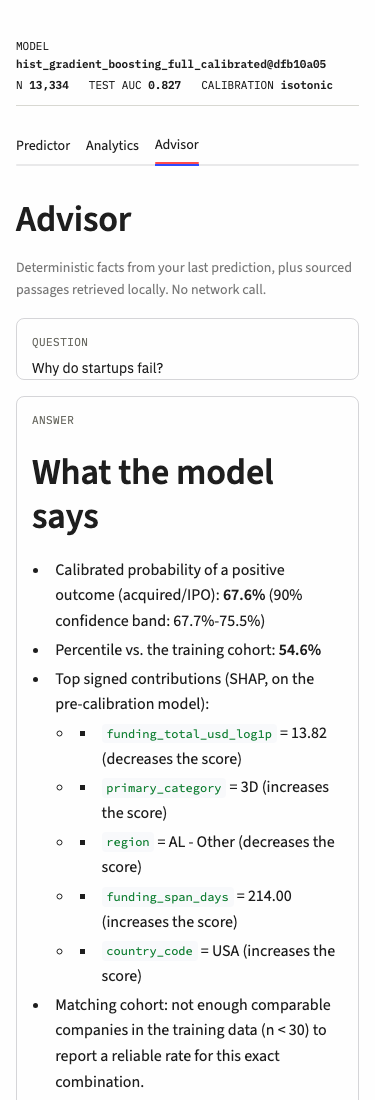
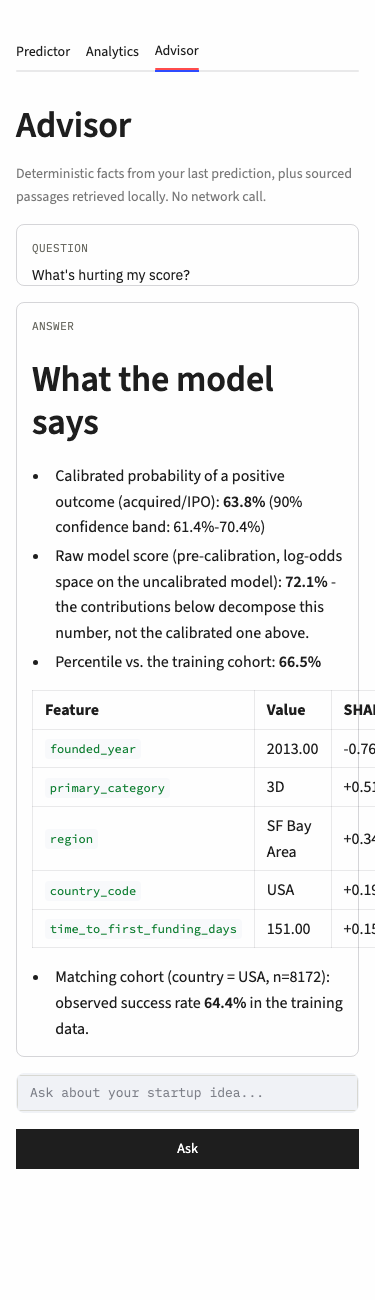
docs: add coverage note, USA-concentration limitation, clean-vs-full production numbers, refresh screenshots
Live-computed coverage caption in the Analytics dashboard (country/category/
funding non-null rates - 85.1%/91.9%/83.6%, matching plan estimates measured
against the real processed dataset, not hardcoded). README's Limitations
gains a geographic-concentration bullet (USA is 8,172 of 10,632 rows in the
country-breakdown chart, 76.9%, verified live). MODEL_CARD.md gains a
"Production default: clean, not full" section with the real Task-1 calibrated
AUC/Brier numbers for both models. Re-ran the retrieval eval (recall@3 0.882,
recall@5 0.941 - unchanged, confirming the router work didn't touch the
retrieval layer) and restored the hand-written RETRIEVAL_EVAL.md sections the
eval script overwrites. Re-captured all four docs/screenshots/*.png against
the Task 8 UI (model toggle, both-AUC line, bracketing confidence band, raw
score caption, table-rendered SHAP contributions) - the prior set predated
those changes.

diff --git a/analytics.py b/analytics.py
@@ -51,6 +51,13 @@ def show_dashboard() -> None:
     df = _load_dataset()
     overall = df["label"].mean()
     st.metric("Overall success rate", f"{overall:.1%}", help=f"n={len(df):,} labeled companies (operating excluded)")
+    st.caption(
+        f"Coverage: {df['country_code'].notna().sum():,} of {len(df):,} rows have a country "
+        f"({df['country_code'].notna().mean():.1%}), {df['primary_category'].notna().sum():,} have a category "
+        f"({df['primary_category'].notna().mean():.1%}), {df['funding_total_usd_log1p'].notna().sum():,} have "
+        f"funding data ({df['funding_total_usd_log1p'].notna().mean():.1%}). Each chart's own n reflects its "
+        f"column's non-null, n>=30-suppressed rows - the differing totals below are expected, not an error."
+    )
 
     st.subheader("By country")
     by_country = _grouped_success_rate(df, "country_code").head(TOP_N_GROUPS)

diff --git a/docs/superpowers/plans/2026-09-22-correctness-presentation-pass.md b/docs/superpowers/plans/2026-09-22-correctness-presentation-pass.md
@@ -1477,7 +1477,7 @@ git commit -m "feat(api): default to the clean model, full model opt-in via feat
 **Files:**
 - Modify: `README.md`, `MODEL_CARD.md`, `analytics.py` (coverage note)
 
-- [ ] **Step 1: Add a coverage note to `analytics.py`'s dashboard**
+- [x] **Step 1: Add a coverage note to `analytics.py`'s dashboard**
 
 Right after the `st.metric("Overall success rate", ...)` line in `show_dashboard()`, add:
 ```python
@@ -1491,14 +1491,14 @@ Right after the `st.metric("Overall success rate", ...)` line in `show_dashboard
 ```
 (This computes the real percentages live, matching the acceptance bar of no invented numbers - don't hardcode the 85.1%/91.9%/83.6% figures from planning even though they should reproduce.)
 
-- [ ] **Step 2: Add the USA-concentration sentence to README's Limitations section**
+- [x] **Step 2: Add the USA-concentration sentence to README's Limitations section**
 
 Find the existing "Missing feature families" Limitations bullet and add a new bullet right after the "Survivorship bias" one:
 ```markdown
 - **Geographic concentration:** USA accounts for 8,172 of the 10,632 rows shown in the country-breakdown chart (76.9%, computed live in the Analytics tab) - this is effectively a US-centric model; success-rate patterns for other countries rest on much smaller samples.
 ```
 
-- [ ] **Step 3: Update MODEL_CARD.md with the real clean-model-default numbers**
+- [x] **Step 3: Update MODEL_CARD.md with the real clean-model-default numbers**
 
 Add a new section after the existing metrics table, using the real `roc_auc_after`/`brier_after` values Task 1 printed for both `clean` and `full` calibrated models:
 ```markdown
@@ -1511,13 +1511,13 @@ available as an explicit, labeled "leakage demonstration" toggle in the app and 
 in the API (which then requires the three leaky funding fields) - never the silent default.
 ```
 
-- [ ] **Step 4: Re-run the retrieval eval and the screenshot capture, since the UI changed substantially**
+- [x] **Step 4: Re-run the retrieval eval and the screenshot capture, since the UI changed substantially**
 
 Run: `python3 scripts/run_retrieval_eval.py` (confirms Task 5-7's router work didn't change retrieval-layer numbers - it shouldn't, since `MIN_RETRIEVAL_SCORE` and the retrieval/rerank code are untouched, but verify rather than assume).
 
 Re-capture `docs/screenshots/predictor_form.png`, `predictor_result.png`, `analytics.png`, `advisor.png` using the same Playwright approach as the prior session (start the app, drive it with a script, screenshot at 375px width) - the Predictor tab now has the model toggle and both-AUC line, the Advisor tab now shows table-rendered contributions and the raw score line, so the old screenshots are stale.
 
-- [ ] **Step 5: Commit**
+- [x] **Step 5: Commit**
 
 ```bash
 git add analytics.py README.md MODEL_CARD.md docs/screenshots/

diff --git a/MODEL_CARD.md b/MODEL_CARD.md
@@ -47,6 +47,14 @@ Every non-dummy model's **test ROC-AUC is higher than its CV ROC-AUC mean** (e.g
 
 Both model families lose roughly 3.6-4.7 ROC-AUC points when `funding_total_usd_log1p`, `funding_rounds`, and `funding_span_days` are removed — consistent with the diagnostic probe in `DATA_CARD.md` (0.0474 measured there with a similar logistic-regression setup on Step 1's data pipeline). **This is the finding, not an artifact**: those three columns are recorded at scrape time, after the outcome (acquisition, IPO, or closure) is already known, so a portion of the "full" model's apparent skill is unavailable in any real forward-looking use case. The clean model — weaker, and honestly so — is the only one of the two that answers the question "can we predict this company's outcome from information available early in its life."
 
+## Production default: clean, not full
+
+The deployed app and API default to the **clean-feature calibrated model**, not the full one, even
+though the full model's test AUC is higher - see `DATA_CARD.md`'s leakage finding. Measured (calibrated)
+test ROC-AUC: clean `0.7968`, full `0.8267` (Brier: clean `0.1645`, full `0.1500`). The full model remains
+available as an explicit, labeled "leakage demonstration" toggle in the app and via `feature_set="full"`
+in the API (which then requires the three leaky funding fields) - never the silent default.
+
 ## Context against external benchmarks
 
 The spec that produced this model card cited published work reporting ROC-AUC around 0.86 on 34,000 Crunchbase companies, and benchmarks at a 0.78% positive rate treating F0.5 = 0.097 as a good result. **Neither is directly comparable to the numbers above.** Our labeled set is 13,334 rows (34k companies with a labelable, non-`operating` status was not what we observed here), and our test-cohort positive rate is 26.71% — two orders of magnitude higher than 0.78%. A dataset that imbalanced makes even a small positive predictive value look impressive relative to the floor; ours is far less imbalanced, so direct comparison of raw AUC or F0.5 values across the two settings would be misleading. Our `logistic_regression_full` test ROC-AUC of 0.8496 lands in the same neighborhood as the cited 0.86, which is a reasonable sanity check that nothing here is obviously broken — but it is not evidence of matching that study's setup, sample, or label definition.

diff --git a/README.md b/README.md
@@ -155,6 +155,7 @@ uvicorn api:app --reload
 
 - **Dataset vintage:** the underlying Crunchbase snapshot was scraped circa late 2015 (`DATA_CARD.md`) - nothing here has been validated against 2020s-era startup dynamics.
 - **Survivorship bias:** Crunchbase under-reports failures (companies that quietly shut down often just stop being updated rather than having their status changed) - the observed 53.2% positive rate among *resolved* companies is almost certainly optimistic relative to the true rate. See `DATA_CARD.md` and `data/corpus/survivorship_bias.md`.
+- **Geographic concentration:** USA accounts for 8,172 of the 10,632 rows shown in the country-breakdown chart (76.9%, computed live in the Analytics tab) - this is effectively a US-centric model; success-rate patterns for other countries rest on much smaller samples.
 - **Missing feature families:** this dataset has no signal on investor/network quality (who backed the company) or product/digital traction (usage, revenue, growth) - both are independently documented as predictive of startup outcomes and both are entirely absent here. See `data/corpus/investor_quality_and_traction_gap.md`.
 - **Leakage in the full feature set:** `funding_total_usd`/`funding_rounds`/`funding_span_days` are measured after the outcome is already known - see `MODEL_CARD.md` and `data/corpus/model_limitations_leakage_calibration.md` for the measured AUC cost, corroborated by independent published research.
 - **This is a decision-support experiment, not investment advice.** Nothing this project outputs - a probability, a percentile, a SHAP contribution, or the AI Advisor's response - should be treated as a recommendation to invest in, found, or avoid any real company.
